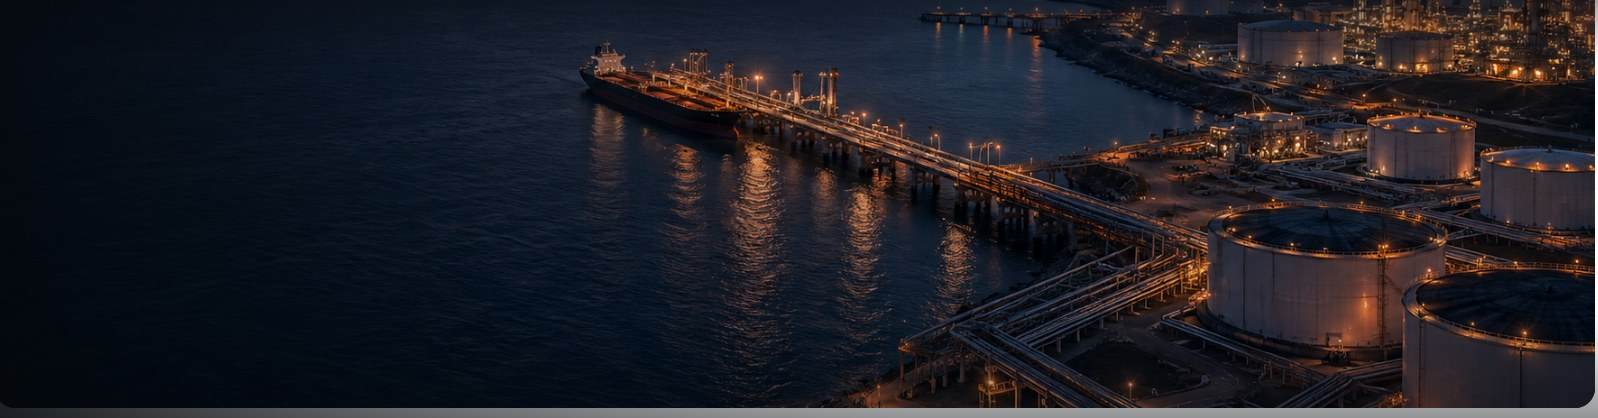
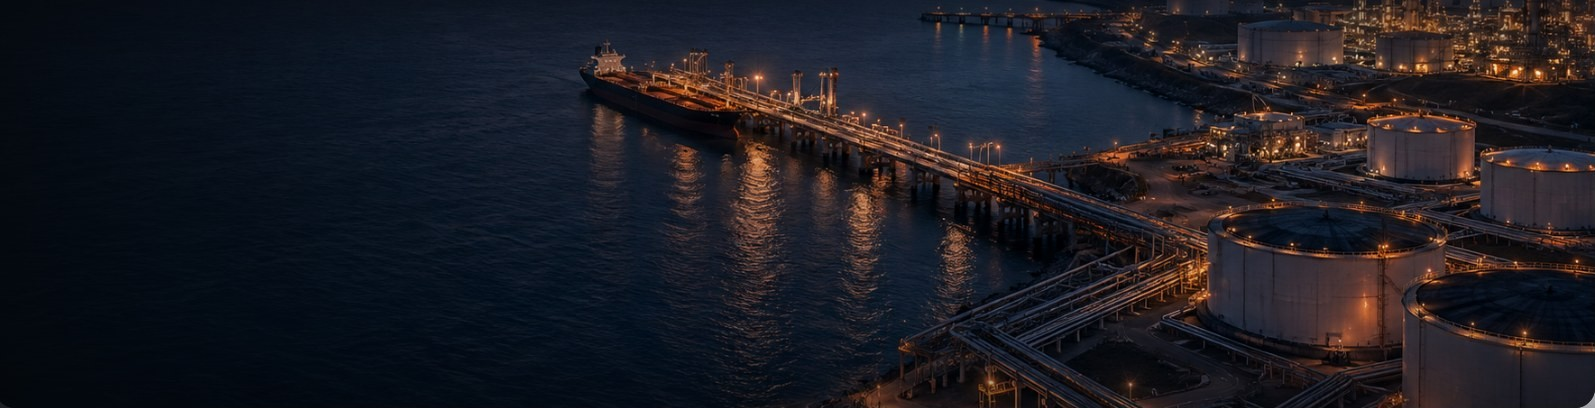
Fix the hero: crop the grey, reveal word by word, lighten the standfirst
The grey band was baked into the supplied photograph, not painted by the
CSS. The bottom ten rows and the right three columns were light grey
from however the file was exported. The image is cropped to 1595 by 408
and the aspect ratio follows it.

The headline now rises a word at a time rather than a line at a time,
staggered 0.16s from the same 0.35s start, so the last word lands before
the lights begin.

Two ellipses arrive before the phrase, at 2.9s and 3.5s, and "all the
time" still lands at 4.1s as it did.

The standfirst was three sentences and fifty two words. It is now two
sentences and thirty five.

The reduced-motion rule covers the new word and tag spans.

diff --git a/index.html b/index.html
@@ -4,7 +4,7 @@
 <meta property="og:title" content="A clearer view of a complex world | EchoFrame"><meta property="og:description" content="Research on political decisions and their consequences. Explore EchoFrame research, coverage and how the work is done."><meta property="og:type" content="website"><meta property="og:image" content="assets/social-card.png">
 <link rel="icon" href="favicon.png"><link rel="stylesheet" href="assets/site.css"><link rel="stylesheet" href="assets/presence.css"><link rel="stylesheet" href="assets/depth.css"><link rel="stylesheet" href="assets/refinements.css"><link rel="stylesheet" href="assets/bureau.css"><script defer src="assets/site.js"></script></head>
 <body class="page-home"><a class="skip-link" href="#main">Skip to content</a><div class="topline"><div class="container"><span>✳ &nbsp; A closer view of Venezuela. Our lead research programme is taking shape.</span><a href="venezuela.html">Explore the programme </a></div></div>
-<header class="site-header"><div class="container nav-shell"><a class="brand" href="index.html" aria-label="EchoFrame home"><svg class="echoframe-mark" viewBox="0 0 48 48" fill="none" aria-hidden="true"><g stroke-width="3.8" stroke-linecap="round"><path d="M7 7L29 41M13 7L35 41M19 7L41 41" stroke="#ed704b"/><path d="M41 7L19 41M35 7L13 41M29 7L7 41" stroke="currentColor"/></g></svg><span>echo<span class="brand-light">frame</span><i>®</i></span></a><button class="menu-toggle" aria-expanded="false" aria-controls="main-nav">Menu <span aria-hidden="true">☰</span></button><nav id="main-nav" aria-label="Main navigation"><a href="services.html">Services</a><details class="nav-group"><summary>Capabilities</summary><div class="nav-panel"><div class="nav-panel-label">Capabilities</div><a href="how-it-works.html"><strong>How it works</strong><small>The six steps, and how a development is confirmed.</small></a><a href="capabilities.html"><strong>Research system</strong><small>Explore the full analytical workflow.</small></a><a href="actor-mapping.html"><strong>Actor &amp; asset mapping</strong><small>Document the relationships behind a decision.</small></a><a href="evidence-workspace.html"><strong>Evidence workspace</strong><small>Inspect sources, contradictions, and limits.</small></a><a href="decision-pathways.html"><strong>Decision pathways</strong><small>Define milestones and review triggers.</small></a></div></details><details class="nav-group"><summary>Who we help</summary><div class="nav-panel"><div class="nav-panel-label">Who we help</div><a href="government-affairs.html"><strong>Government affairs</strong><small>Policy, stakeholders, and operating assets.</small></a><a href="distressed-debt.html"><strong>Distressed debt</strong><small>Political assumptions and counterparty research.</small></a><a href="case-study-venezuela.html"><strong>Case study, Venezuela</strong><small>A call made before the outcome.</small></a><a href="worked-examples.html"><strong>Worked examples</strong><small>Three engagements, described by type.</small></a><a href="engagement.html"><strong>Working with EchoFrame</strong><small>Research formats, scope, and delivery.</small></a></div></details><details class="nav-group"><summary>Company</summary><div class="nav-panel"><div class="nav-panel-label">Company</div><a href="about.html"><strong>About EchoFrame</strong><small>The purpose and approach behind the research.</small></a><a href="frame-bureau.html"><strong>The Frame Bureau</strong><small>Training an institution to run its own desk.</small></a><a href="trust.html"><strong>Trust &amp; privacy</strong><small>Evidence, information handling, and boundaries.</small></a><a href="editorial-standards.html"><strong>Editorial standards</strong><small>Attribution, uncertainty, and corrections.</small></a></div></details><a href="venezuela.html">Venezuela</a></nav></div></header>
+<header class="site-header"><div class="container nav-shell"><a class="brand" href="index.html" aria-label="EchoFrame home"><svg class="echoframe-mark" viewBox="0 0 48 48" fill="none" aria-hidden="true"><g stroke-width="3.8" stroke-linecap="round"><path d="M7 7L29 41M13 7L35 41M19 7L41 41" stroke="#ed704b"/><path d="M41 7L19 41M35 7L13 41M29 7L7 41" stroke="currentColor"/></g></svg><span>echo<span class="brand-light">frame</span><i>®</i></span></a><button class="menu-toggle" aria-expanded="false" aria-controls="main-nav">Menu <span aria-hidden="true">☰</span></button><nav id="main-nav" aria-label="Main navigation"><details class="nav-group"><summary>Services</summary><div class="nav-panel"><div class="nav-panel-label">Services</div><a href="services.html"><strong>What we deliver</strong><small>The subscriptions and the projects, in one view.</small></a><a href="asset-watch.html"><strong>Asset Watch</strong><small>Continuous coverage of the assets you name.</small></a><a href="question-book.html"><strong>Question Book</strong><small>Dated questions, scored when the date arrives.</small></a><a href="ground-truth.html"><strong>Ground Truth</strong><small>Reporting filed from the place itself.</small></a><a href="projects.html"><strong>Projects</strong><small>Single pieces of work with a defined scope.</small></a></div></details><details class="nav-group"><summary>Capabilities</summary><div class="nav-panel"><div class="nav-panel-label">Capabilities</div><a href="how-it-works.html"><strong>How it works</strong><small>The six steps, and how a development is confirmed.</small></a><a href="capabilities.html"><strong>Research system</strong><small>Explore the full analytical workflow.</small></a><a href="actor-mapping.html"><strong>Actor &amp; asset mapping</strong><small>Document the relationships behind a decision.</small></a><a href="evidence-workspace.html"><strong>Evidence workspace</strong><small>Inspect sources, contradictions, and limits.</small></a><a href="decision-pathways.html"><strong>Decision pathways</strong><small>Define milestones and review triggers.</small></a></div></details><details class="nav-group"><summary>Who we help</summary><div class="nav-panel"><div class="nav-panel-label">Who we help</div><a href="government-affairs.html"><strong>Government affairs</strong><small>Policy, stakeholders, and operating assets.</small></a><a href="distressed-debt.html"><strong>Distressed debt</strong><small>Political assumptions and counterparty research.</small></a><a href="case-study-venezuela.html"><strong>Case study, Venezuela</strong><small>A call made before the outcome.</small></a><a href="worked-examples.html"><strong>Worked examples</strong><small>Three engagements, described by type.</small></a><a href="engagement.html"><strong>Working with EchoFrame</strong><small>Research formats, scope, and delivery.</small></a></div></details><details class="nav-group"><summary>Company</summary><div class="nav-panel"><div class="nav-panel-label">Company</div><a href="about.html"><strong>About EchoFrame</strong><small>The purpose and approach behind the research.</small></a><a href="frame-bureau.html"><strong>The Frame Bureau</strong><small>Training an institution to run its own desk.</small></a><a href="trust.html"><strong>Trust &amp; privacy</strong><small>Evidence, information handling, and boundaries.</small></a><a href="editorial-standards.html"><strong>Editorial standards</strong><small>Attribution, uncertainty, and corrections.</small></a></div></details><a href="venezuela.html">Venezuela</a></nav></div></header>
 <main id="main"><section class="ef-hero"><div class="container">
   <div class="ef-hero-media">
     <div class="ef-hero-photo" role="img" aria-label="An oil export terminal at night, a tanker moored at a jetty, storage tanks and a refinery lit along the shore, with dark open water filling the rest of the frame"></div>
@@ -17,11 +17,11 @@
       <g class="ef-found-5"><circle cx="736" cy="266" r="34" fill="url(#efFound)"/><circle cx="736" cy="266" r="2.8" fill="#FFD9A8"/></g>
     </svg>
     <div class="ef-hero-copy">
-      <h1><span class="ef-l1">We watch the places</span><span class="ef-l2">nobody is watching</span></h1>
+      <h1><span class="ef-l1"><span class="ef-w" style="--w:0">We</span><span class="ef-w" style="--w:1">watch</span><span class="ef-w" style="--w:2">the</span><span class="ef-w" style="--w:3">places</span></span><span class="ef-l2"><span class="ef-w" style="--w:4">nobody</span><span class="ef-w" style="--w:5">is</span><span class="ef-w" style="--w:6">watching</span></span></h1>
     </div>
-    <p class="ef-hero-tag">all the time</p>
+    <p class="ef-hero-tag"><span class="ef-dot ef-dot-1">&#8230;</span><span class="ef-dot ef-dot-2">&#8230;</span><span class="ef-tag-words">all the time</span></p>
   </div>
-  <p class="ef-hero-standfirst">EchoFrame builds a dated, sourced record of what is happening in emerging markets where the information is thin. We work with local newsrooms, and check what they report against official records, physical data and markets. Clients use the record to answer questions a single report cannot.</p>
+  <p class="ef-hero-standfirst">We pay local newsrooms for reporting from places the wires do not cover, and check it against official records, physical data and markets. What you get is a dated record you can act on.</p>
 </div></section>
 <div class="home-claims container"><section class="home-claim" aria-labelledby="claim-1"><div class="eyebrow">01 / Where we collect</div><div><h2 id="claim-1">Outside the capitals</h2><p>Oil states in eastern and western Venezuela, with Colombia, Mexico, Rwanda and Pakistan next. We work where the reporting is thinnest and the exposure is largest.</p></div></section><section class="home-claim" aria-labelledby="claim-2"><div class="eyebrow">02 / How we check it</div><div><h2 id="claim-2">Nothing counts on one class of source</h2><p>News media count as one class however many outlets carry a story. Official records, independent research, physical data and reporting from the ground are the others. A development is confirmed when independent classes agree.</p></div></section><section class="home-claim" aria-labelledby="claim-3"><div class="eyebrow">03 / What you get</div><div><h2 id="claim-3">A record, not a report</h2><p>A dated record of developments at named assets, a short list of written questions with dates on them, and a probability on each that moves only when the evidence does.</p></div></section><section class="home-claim" aria-labelledby="claim-4"><div class="eyebrow">04 / What we deliver</div><div><h2 id="claim-4">Three things to subscribe to, three to commission</h2><p>Asset Watch covers the assets you name. Question Book answers the questions you have to settle. Ground Truth files reporting from the places we cover. <a href="services.html">See what we deliver</a>.</p></div></section><section class="home-claim home-closing"><div><p>If the decision in front of you depends on somewhere the wires do not cover, start a conversation.</p></div></section></div><section class="section container page-enquiry"><a class="button button-coral" href="briefing.html">Start a conversation</a></section></main>
 <footer class="site-footer"><div class="container"><div class="footer-top"><div><a class="brand" href="index.html" aria-label="EchoFrame home"><svg class="echoframe-mark" viewBox="0 0 48 48" fill="none" aria-hidden="true"><g stroke-width="3.8" stroke-linecap="round"><path d="M7 7L29 41M13 7L35 41M19 7L41 41" stroke="#ed704b"/><path d="M41 7L19 41M35 7L13 41M29 7L7 41" stroke="currentColor"/></g></svg><span>echo<span class="brand-light">frame</span><i>®</i></span></a><p>Research on political decisions and their consequences.</p><span class="eyebrow">Venezuela and European energy policy</span></div><div><h2>Explore</h2><a href="capabilities.html">Research capabilities</a><a href="government-affairs.html">Government affairs</a><a href="distressed-debt.html">Distressed debt</a><a href="venezuela.html">Venezuela programme</a><a href="coverage.html">Regional coverage</a><a href="how-it-works.html">How it works</a></div><div><h2>Connect</h2><a href="engagement.html">Working with EchoFrame</a><span>contact@echoframe.co</span><a href="https://ie.linkedin.com/company/echoframing" target="_blank" rel="noopener noreferrer">LinkedIn </a></div><div><h2>Company</h2><a href="about.html">About EchoFrame</a><a href="trust.html">Trust &amp; privacy</a><a href="sample-briefs.html">Sample briefs &amp; templates</a><a href="sources.html">Primary-source directory</a><a href="editorial-standards.html">Editorial standards</a></div></div><div class="footer-bottom"><span>© 2026 EchoFrame Intelligence AB</span><span><a href="privacy.html">Privacy</a><span class="meta-dot">/</span>EchoFrame research</span><a href="#main">Back to top </a></div></div></footer></body></html>

diff --git a/site.html b/site.html
@@ -4,7 +4,7 @@
 <meta property="og:title" content="A clearer view of a complex world | EchoFrame"><meta property="og:description" content="Research on political decisions and their consequences. Explore EchoFrame research, coverage and how the work is done."><meta property="og:type" content="website"><meta property="og:image" content="assets/social-card.png">
 <link rel="icon" href="favicon.png"><link rel="stylesheet" href="assets/site.css"><link rel="stylesheet" href="assets/presence.css"><link rel="stylesheet" href="assets/depth.css"><link rel="stylesheet" href="assets/refinements.css"><link rel="stylesheet" href="assets/bureau.css"><script defer src="assets/site.js"></script></head>
 <body class="page-home"><a class="skip-link" href="#main">Skip to content</a><div class="topline"><div class="container"><span>✳ &nbsp; A closer view of Venezuela. Our lead research programme is taking shape.</span><a href="venezuela.html">Explore the programme </a></div></div>
-<header class="site-header"><div class="container nav-shell"><a class="brand" href="index.html" aria-label="EchoFrame home"><svg class="echoframe-mark" viewBox="0 0 48 48" fill="none" aria-hidden="true"><g stroke-width="3.8" stroke-linecap="round"><path d="M7 7L29 41M13 7L35 41M19 7L41 41" stroke="#ed704b"/><path d="M41 7L19 41M35 7L13 41M29 7L7 41" stroke="currentColor"/></g></svg><span>echo<span class="brand-light">frame</span><i>®</i></span></a><button class="menu-toggle" aria-expanded="false" aria-controls="main-nav">Menu <span aria-hidden="true">☰</span></button><nav id="main-nav" aria-label="Main navigation"><a href="services.html">Services</a><details class="nav-group"><summary>Capabilities</summary><div class="nav-panel"><div class="nav-panel-label">Capabilities</div><a href="how-it-works.html"><strong>How it works</strong><small>The six steps, and how a development is confirmed.</small></a><a href="capabilities.html"><strong>Research system</strong><small>Explore the full analytical workflow.</small></a><a href="actor-mapping.html"><strong>Actor &amp; asset mapping</strong><small>Document the relationships behind a decision.</small></a><a href="evidence-workspace.html"><strong>Evidence workspace</strong><small>Inspect sources, contradictions, and limits.</small></a><a href="decision-pathways.html"><strong>Decision pathways</strong><small>Define milestones and review triggers.</small></a></div></details><details class="nav-group"><summary>Who we help</summary><div class="nav-panel"><div class="nav-panel-label">Who we help</div><a href="government-affairs.html"><strong>Government affairs</strong><small>Policy, stakeholders, and operating assets.</small></a><a href="distressed-debt.html"><strong>Distressed debt</strong><small>Political assumptions and counterparty research.</small></a><a href="case-study-venezuela.html"><strong>Case study, Venezuela</strong><small>A call made before the outcome.</small></a><a href="worked-examples.html"><strong>Worked examples</strong><small>Three engagements, described by type.</small></a><a href="engagement.html"><strong>Working with EchoFrame</strong><small>Research formats, scope, and delivery.</small></a></div></details><details class="nav-group"><summary>Company</summary><div class="nav-panel"><div class="nav-panel-label">Company</div><a href="about.html"><strong>About EchoFrame</strong><small>The purpose and approach behind the research.</small></a><a href="frame-bureau.html"><strong>The Frame Bureau</strong><small>Training an institution to run its own desk.</small></a><a href="trust.html"><strong>Trust &amp; privacy</strong><small>Evidence, information handling, and boundaries.</small></a><a href="editorial-standards.html"><strong>Editorial standards</strong><small>Attribution, uncertainty, and corrections.</small></a></div></details><a href="venezuela.html">Venezuela</a></nav></div></header>
+<header class="site-header"><div class="container nav-shell"><a class="brand" href="index.html" aria-label="EchoFrame home"><svg class="echoframe-mark" viewBox="0 0 48 48" fill="none" aria-hidden="true"><g stroke-width="3.8" stroke-linecap="round"><path d="M7 7L29 41M13 7L35 41M19 7L41 41" stroke="#ed704b"/><path d="M41 7L19 41M35 7L13 41M29 7L7 41" stroke="currentColor"/></g></svg><span>echo<span class="brand-light">frame</span><i>®</i></span></a><button class="menu-toggle" aria-expanded="false" aria-controls="main-nav">Menu <span aria-hidden="true">☰</span></button><nav id="main-nav" aria-label="Main navigation"><details class="nav-group"><summary>Services</summary><div class="nav-panel"><div class="nav-panel-label">Services</div><a href="services.html"><strong>What we deliver</strong><small>The subscriptions and the projects, in one view.</small></a><a href="asset-watch.html"><strong>Asset Watch</strong><small>Continuous coverage of the assets you name.</small></a><a href="question-book.html"><strong>Question Book</strong><small>Dated questions, scored when the date arrives.</small></a><a href="ground-truth.html"><strong>Ground Truth</strong><small>Reporting filed from the place itself.</small></a><a href="projects.html"><strong>Projects</strong><small>Single pieces of work with a defined scope.</small></a></div></details><details class="nav-group"><summary>Capabilities</summary><div class="nav-panel"><div class="nav-panel-label">Capabilities</div><a href="how-it-works.html"><strong>How it works</strong><small>The six steps, and how a development is confirmed.</small></a><a href="capabilities.html"><strong>Research system</strong><small>Explore the full analytical workflow.</small></a><a href="actor-mapping.html"><strong>Actor &amp; asset mapping</strong><small>Document the relationships behind a decision.</small></a><a href="evidence-workspace.html"><strong>Evidence workspace</strong><small>Inspect sources, contradictions, and limits.</small></a><a href="decision-pathways.html"><strong>Decision pathways</strong><small>Define milestones and review triggers.</small></a></div></details><details class="nav-group"><summary>Who we help</summary><div class="nav-panel"><div class="nav-panel-label">Who we help</div><a href="government-affairs.html"><strong>Government affairs</strong><small>Policy, stakeholders, and operating assets.</small></a><a href="distressed-debt.html"><strong>Distressed debt</strong><small>Political assumptions and counterparty research.</small></a><a href="case-study-venezuela.html"><strong>Case study, Venezuela</strong><small>A call made before the outcome.</small></a><a href="worked-examples.html"><strong>Worked examples</strong><small>Three engagements, described by type.</small></a><a href="engagement.html"><strong>Working with EchoFrame</strong><small>Research formats, scope, and delivery.</small></a></div></details><details class="nav-group"><summary>Company</summary><div class="nav-panel"><div class="nav-panel-label">Company</div><a href="about.html"><strong>About EchoFrame</strong><small>The purpose and approach behind the research.</small></a><a href="frame-bureau.html"><strong>The Frame Bureau</strong><small>Training an institution to run its own desk.</small></a><a href="trust.html"><strong>Trust &amp; privacy</strong><small>Evidence, information handling, and boundaries.</small></a><a href="editorial-standards.html"><strong>Editorial standards</strong><small>Attribution, uncertainty, and corrections.</small></a></div></details><a href="venezuela.html">Venezuela</a></nav></div></header>
 <main id="main"><section class="ef-hero"><div class="container">
   <div class="ef-hero-media">
     <div class="ef-hero-photo" role="img" aria-label="An oil export terminal at night, a tanker moored at a jetty, storage tanks and a refinery lit along the shore, with dark open water filling the rest of the frame"></div>
@@ -17,11 +17,11 @@
       <g class="ef-found-5"><circle cx="736" cy="266" r="34" fill="url(#efFound)"/><circle cx="736" cy="266" r="2.8" fill="#FFD9A8"/></g>
     </svg>
     <div class="ef-hero-copy">
-      <h1><span class="ef-l1">We watch the places</span><span class="ef-l2">nobody is watching</span></h1>
+      <h1><span class="ef-l1"><span class="ef-w" style="--w:0">We</span><span class="ef-w" style="--w:1">watch</span><span class="ef-w" style="--w:2">the</span><span class="ef-w" style="--w:3">places</span></span><span class="ef-l2"><span class="ef-w" style="--w:4">nobody</span><span class="ef-w" style="--w:5">is</span><span class="ef-w" style="--w:6">watching</span></span></h1>
     </div>
-    <p class="ef-hero-tag">all the time</p>
+    <p class="ef-hero-tag"><span class="ef-dot ef-dot-1">&#8230;</span><span class="ef-dot ef-dot-2">&#8230;</span><span class="ef-tag-words">all the time</span></p>
   </div>
-  <p class="ef-hero-standfirst">EchoFrame builds a dated, sourced record of what is happening in emerging markets where the information is thin. We work with local newsrooms, and check what they report against official records, physical data and markets. Clients use the record to answer questions a single report cannot.</p>
+  <p class="ef-hero-standfirst">We pay local newsrooms for reporting from places the wires do not cover, and check it against official records, physical data and markets. What you get is a dated record you can act on.</p>
 </div></section>
 <div class="home-claims container"><section class="home-claim" aria-labelledby="claim-1"><div class="eyebrow">01 / Where we collect</div><div><h2 id="claim-1">Outside the capitals</h2><p>Oil states in eastern and western Venezuela, with Colombia, Mexico, Rwanda and Pakistan next. We work where the reporting is thinnest and the exposure is largest.</p></div></section><section class="home-claim" aria-labelledby="claim-2"><div class="eyebrow">02 / How we check it</div><div><h2 id="claim-2">Nothing counts on one class of source</h2><p>News media count as one class however many outlets carry a story. Official records, independent research, physical data and reporting from the ground are the others. A development is confirmed when independent classes agree.</p></div></section><section class="home-claim" aria-labelledby="claim-3"><div class="eyebrow">03 / What you get</div><div><h2 id="claim-3">A record, not a report</h2><p>A dated record of developments at named assets, a short list of written questions with dates on them, and a probability on each that moves only when the evidence does.</p></div></section><section class="home-claim" aria-labelledby="claim-4"><div class="eyebrow">04 / What we deliver</div><div><h2 id="claim-4">Three things to subscribe to, three to commission</h2><p>Asset Watch covers the assets you name. Question Book answers the questions you have to settle. Ground Truth files reporting from the places we cover. <a href="services.html">See what we deliver</a>.</p></div></section><section class="home-claim home-closing"><div><p>If the decision in front of you depends on somewhere the wires do not cover, start a conversation.</p></div></section></div></main>
 <footer class="site-footer"><div class="container"><div class="footer-top"><div><a class="brand" href="index.html" aria-label="EchoFrame home"><svg class="echoframe-mark" viewBox="0 0 48 48" fill="none" aria-hidden="true"><g stroke-width="3.8" stroke-linecap="round"><path d="M7 7L29 41M13 7L35 41M19 7L41 41" stroke="#ed704b"/><path d="M41 7L19 41M35 7L13 41M29 7L7 41" stroke="currentColor"/></g></svg><span>echo<span class="brand-light">frame</span><i>®</i></span></a><p>Research on political decisions and their consequences.</p><span class="eyebrow">Venezuela and European energy policy</span></div><div><h2>Explore</h2><a href="capabilities.html">Research capabilities</a><a href="government-affairs.html">Government affairs</a><a href="distressed-debt.html">Distressed debt</a><a href="venezuela.html">Venezuela programme</a><a href="coverage.html">Regional coverage</a><a href="how-it-works.html">How it works</a></div><div><h2>Connect</h2><a href="engagement.html">Working with EchoFrame</a><span>contact@echoframe.co</span><a href="https://ie.linkedin.com/company/echoframing" target="_blank" rel="noopener noreferrer">LinkedIn </a></div><div><h2>Company</h2><a href="about.html">About EchoFrame</a><a href="trust.html">Trust &amp; privacy</a><a href="sample-briefs.html">Sample briefs &amp; templates</a><a href="sources.html">Primary-source directory</a><a href="editorial-standards.html">Editorial standards</a></div></div><div class="footer-bottom"><span>© 2026 EchoFrame Intelligence AB</span><span><a href="privacy.html">Privacy</a><span class="meta-dot">/</span>EchoFrame research</span><a href="#main">Back to top </a></div></div></footer></body></html>

diff --git a/assets/refinements.css b/assets/refinements.css
@@ -77,15 +77,21 @@ select{appearance:none;-webkit-appearance:none;background-image:none}
 /* Home hero. Supplied in docs/files.zip; the only change is the photograph,
    which is served from assets/ rather than embedded as a data URI. */
 .ef-hero{margin:0}
-.ef-hero-media{position:relative;border-radius:14px;overflow:hidden;background:#04070b;aspect-ratio:1598/418;min-height:290px}
+.ef-hero-media{position:relative;border-radius:14px;overflow:hidden;background:#04070b;aspect-ratio:1595/408;min-height:290px}
 .ef-hero-photo{position:absolute;inset:0;background-image:url("/assets/hero-terminal.jpg");background-size:cover;background-position:center right}
 .ef-hero-lights{position:absolute;inset:0;width:100%;height:100%}
 .ef-hero-copy{position:absolute;left:clamp(22px,3.6vw,58px);top:50%;transform:translateY(-50%);max-width:min(600px,58%)}
 .ef-hero-copy h1{margin:0;font-family:Georgia,"Source Serif 4",serif;font-weight:500;font-size:clamp(26px,3.7vw,50px);line-height:1.06;letter-spacing:-.015em;color:#fff;text-shadow:0 2px 34px rgba(4,7,11,.95)}
-.ef-hero-copy h1 span{display:block;opacity:0;transform:translateY(14px);animation:efRise .9s cubic-bezier(.2,.7,.3,1) forwards}
-.ef-hero-copy h1 .ef-l1{animation-delay:.35s}
-.ef-hero-copy h1 .ef-l2{animation-delay:1s}
-.ef-hero-tag{position:absolute;right:clamp(20px,3vw,44px);bottom:clamp(16px,2.6vw,30px);margin:0;font-family:Georgia,"Source Serif 4",serif;font-size:clamp(16px,1.7vw,24px);color:#F25120;opacity:0;animation:efFade 1.2s ease 4.1s forwards}
+.ef-hero-copy h1 .ef-l1,.ef-hero-copy h1 .ef-l2{display:block}
+.ef-hero-copy h1 .ef-w{display:inline-block;opacity:0;transform:translateY(14px);
+  animation:efRise .9s cubic-bezier(.2,.7,.3,1) forwards;animation-delay:calc(.35s + var(--w) * .16s)}
+.ef-hero-copy h1 .ef-w + .ef-w{margin-left:.28em}
+.ef-hero-tag{position:absolute;right:clamp(20px,3vw,44px);bottom:clamp(16px,2.6vw,30px);margin:0;font-family:Georgia,"Source Serif 4",serif;font-size:clamp(16px,1.7vw,24px);color:#F25120}
+.ef-hero-tag span{opacity:0;animation:efFade .9s ease forwards}
+.ef-hero-tag .ef-dot + .ef-dot,.ef-hero-tag .ef-tag-words{margin-left:.3em}
+.ef-dot-1{animation-delay:2.9s}
+.ef-dot-2{animation-delay:3.5s}
+.ef-tag-words{animation-delay:4.1s}
 .ef-hero-standfirst{max-width:620px;margin:22px 0 0;font-size:15px;line-height:1.65;color:var(--muted,#4A4A63)}
 .ef-hero-lights g{opacity:0;animation:efLight 1.05s cubic-bezier(.2,.7,.3,1) forwards}
 .ef-found-1{animation-delay:1.9s}.ef-found-2{animation-delay:2.35s}.ef-found-3{animation-delay:2.8s}
@@ -94,7 +100,7 @@ select{appearance:none;-webkit-appearance:none;background-image:none}
 @keyframes efFade{to{opacity:1}}
 @keyframes efLight{0%{opacity:0;transform:scale(.25)}60%{opacity:1;transform:scale(1.06)}100%{opacity:1;transform:scale(1)}}
 @media (prefers-reduced-motion: reduce){
- .ef-hero-copy h1 span,.ef-hero-tag,.ef-hero-lights g{opacity:1;transform:none;animation:none}
+ .ef-hero-copy h1 span,.ef-hero-copy h1 .ef-w,.ef-hero-tag,.ef-hero-tag span,.ef-hero-lights g{opacity:1;transform:none;animation:none}
 }
 @media (max-width:720px){
  /* min-height 290 with a 4/3 ratio forces a 387px box inside a 350px
@@ -115,3 +121,16 @@ select{appearance:none;-webkit-appearance:none;background-image:none}
 @media (prefers-reduced-motion: reduce){
  .ef-fig animateMotion{display:none}
 }
+
+/* Services. The overview lists the project names; the detail is on its own page. */
+.project-list{list-style:none;margin:0;padding:0}
+.project-list>li{padding:18px 0;border-top:1px solid var(--rule,#e4e2ee)}
+.project-list>li:last-child{border-bottom:1px solid var(--rule,#e4e2ee)}
+.project-list h3{margin:0 0 6px}
+.project-list p{margin:0}
+.project-list-compact>li{padding:12px 0}
+.project-list-compact h3{margin:0}
+.service-section .section-heading{margin-bottom:12px}
+.service-more{margin:18px 0 0;font-size:15px}
+.service-pricing{margin-top:44px;padding-top:22px;border-top:1px solid var(--rule,#e4e2ee);max-width:640px}
+.service-pricing p{margin:8px 0 0;font-size:15px;line-height:1.65;color:var(--muted,#4A4A63)}

diff --git a/scripts/experience.py b/scripts/experience.py
@@ -15,11 +15,11 @@ def hero():
       <g class="ef-found-5"><circle cx="736" cy="266" r="34" fill="url(#efFound)"/><circle cx="736" cy="266" r="2.8" fill="#FFD9A8"/></g>
     </svg>
     <div class="ef-hero-copy">
-      <h1><span class="ef-l1">We watch the places</span><span class="ef-l2">nobody is watching</span></h1>
+      <h1><span class="ef-l1"><span class="ef-w" style="--w:0">We</span><span class="ef-w" style="--w:1">watch</span><span class="ef-w" style="--w:2">the</span><span class="ef-w" style="--w:3">places</span></span><span class="ef-l2"><span class="ef-w" style="--w:4">nobody</span><span class="ef-w" style="--w:5">is</span><span class="ef-w" style="--w:6">watching</span></span></h1>
     </div>
-    <p class="ef-hero-tag">all the time</p>
+    <p class="ef-hero-tag"><span class="ef-dot ef-dot-1">&#8230;</span><span class="ef-dot ef-dot-2">&#8230;</span><span class="ef-tag-words">all the time</span></p>
   </div>
-  <p class="ef-hero-standfirst">EchoFrame builds a dated, sourced record of what is happening in emerging markets where the information is thin. We work with local newsrooms, and check what they report against official records, physical data and markets. Clients use the record to answer questions a single report cannot.</p>
+  <p class="ef-hero-standfirst">We pay local newsrooms for reporting from places the wires do not cover, and check it against official records, physical data and markets. What you get is a dated record you can act on.</p>
 </div></section>
 '''
 
